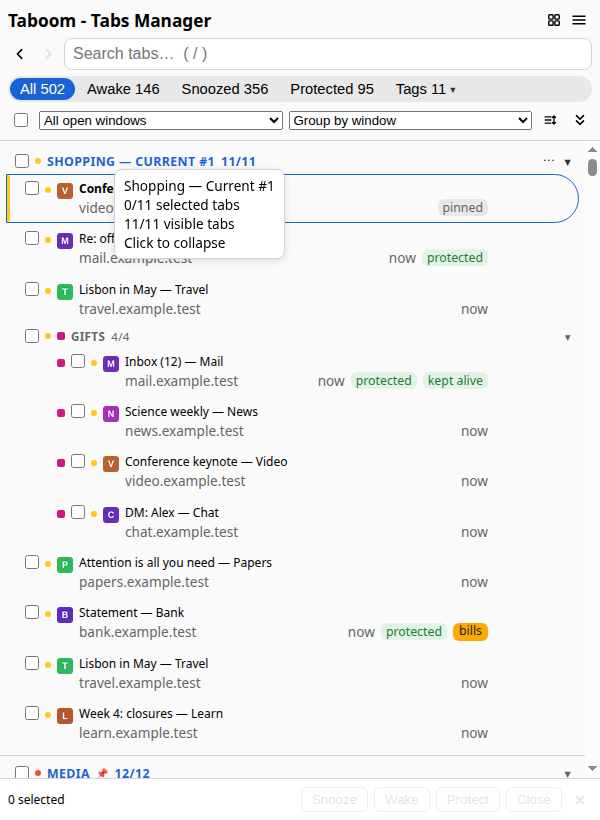
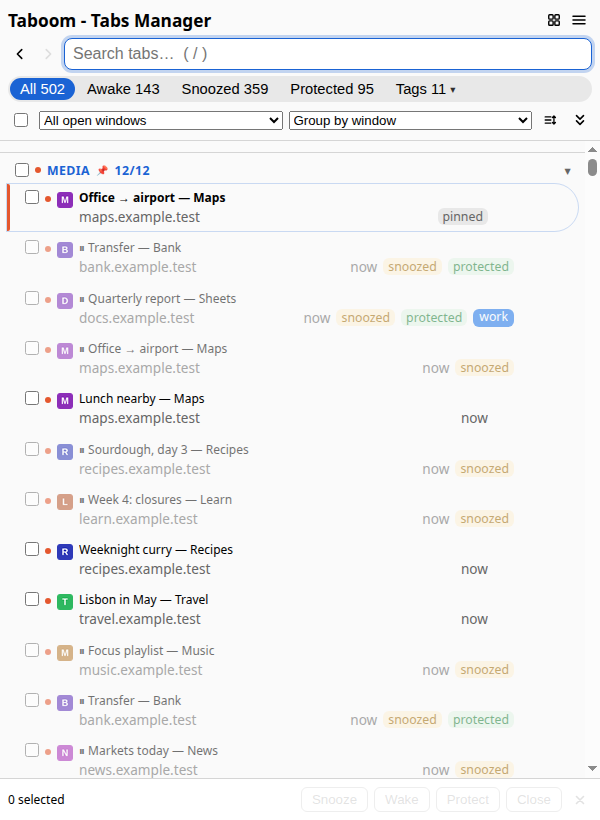
docs(readme): add a support section to the `README.md`

diff --git a/tests/demo/stills.test.ts b/tests/demo/stills.test.ts
@@ -65,7 +65,10 @@ test("Demo - Stills - README shows every readme-* still and nothing else", () =>
   const names = [...stillsBySource().values()].flat().filter(isReadme);
   assert.ok(names.length > 0, "no readme-* stills: the README screenshots come from the readme scene");
   const page = readFileSync("README.md", "utf8");
-  const images = [...page.matchAll(/docs\/assets\/([a-z0-9_/-]+)\.png/g)].map((match) => match[1] ?? "");
+  const notScreenshots = ["bmc_qr"]; // the Buy Me a Coffee QR code: not a picture of the UI
+  const images = [...page.matchAll(/docs\/assets\/([a-z0-9_/-]+)\.png/g)]
+    .map((match) => match[1] ?? "")
+    .filter((image) => !notScreenshots.includes(image));
   assert.deepEqual(
     images.filter((image) => !names.includes(image.replace(/^features\//, ""))),
     [],

diff --git a/demo/scenes/tour.ts b/demo/scenes/tour.ts
@@ -7,6 +7,7 @@ export const tour: Scene = {
   gif: [0, 6],
   async run(stage) {
     await stage.caption("Taboom — 10 windows, 500 tabs, one side panel", 1800);
+    await stage.hover(stage.panel.locator("#search")); // off the window header: no hover tip in the still
     await stage.still("panel-overview");
     await stage.scrollList(900);
     await stage.scrollList(900);

diff --git a/README.md b/README.md
@@ -10,6 +10,11 @@ Taboom - Tabs Manager frees memory by snoozing (discarding) tabs you haven't use
 
 * The [full feature demo](docs/assets/demo/taboom-demo.mp4) (MP4, ~4-5 minutes) walks through every feature with the matching Settings section beside the panel.
 
+## Buy me Pizza/Coffee/Tea
+* Like what I do? Taboom is free and stays free. If it saved you time or memory, you can support the next release: **[Buy me a coffee ☕](https://buymeacoffee.com/ariva)** — or scan the code.
+
+<p align="center"><a href="https://buymeacoffee.com/ariva"><img src="docs/assets/bmc_qr.png" alt="Buy me a coffee — QR code" width="140"></a></p>
+
 ## Installation
 
 ### Chrome Web Store
